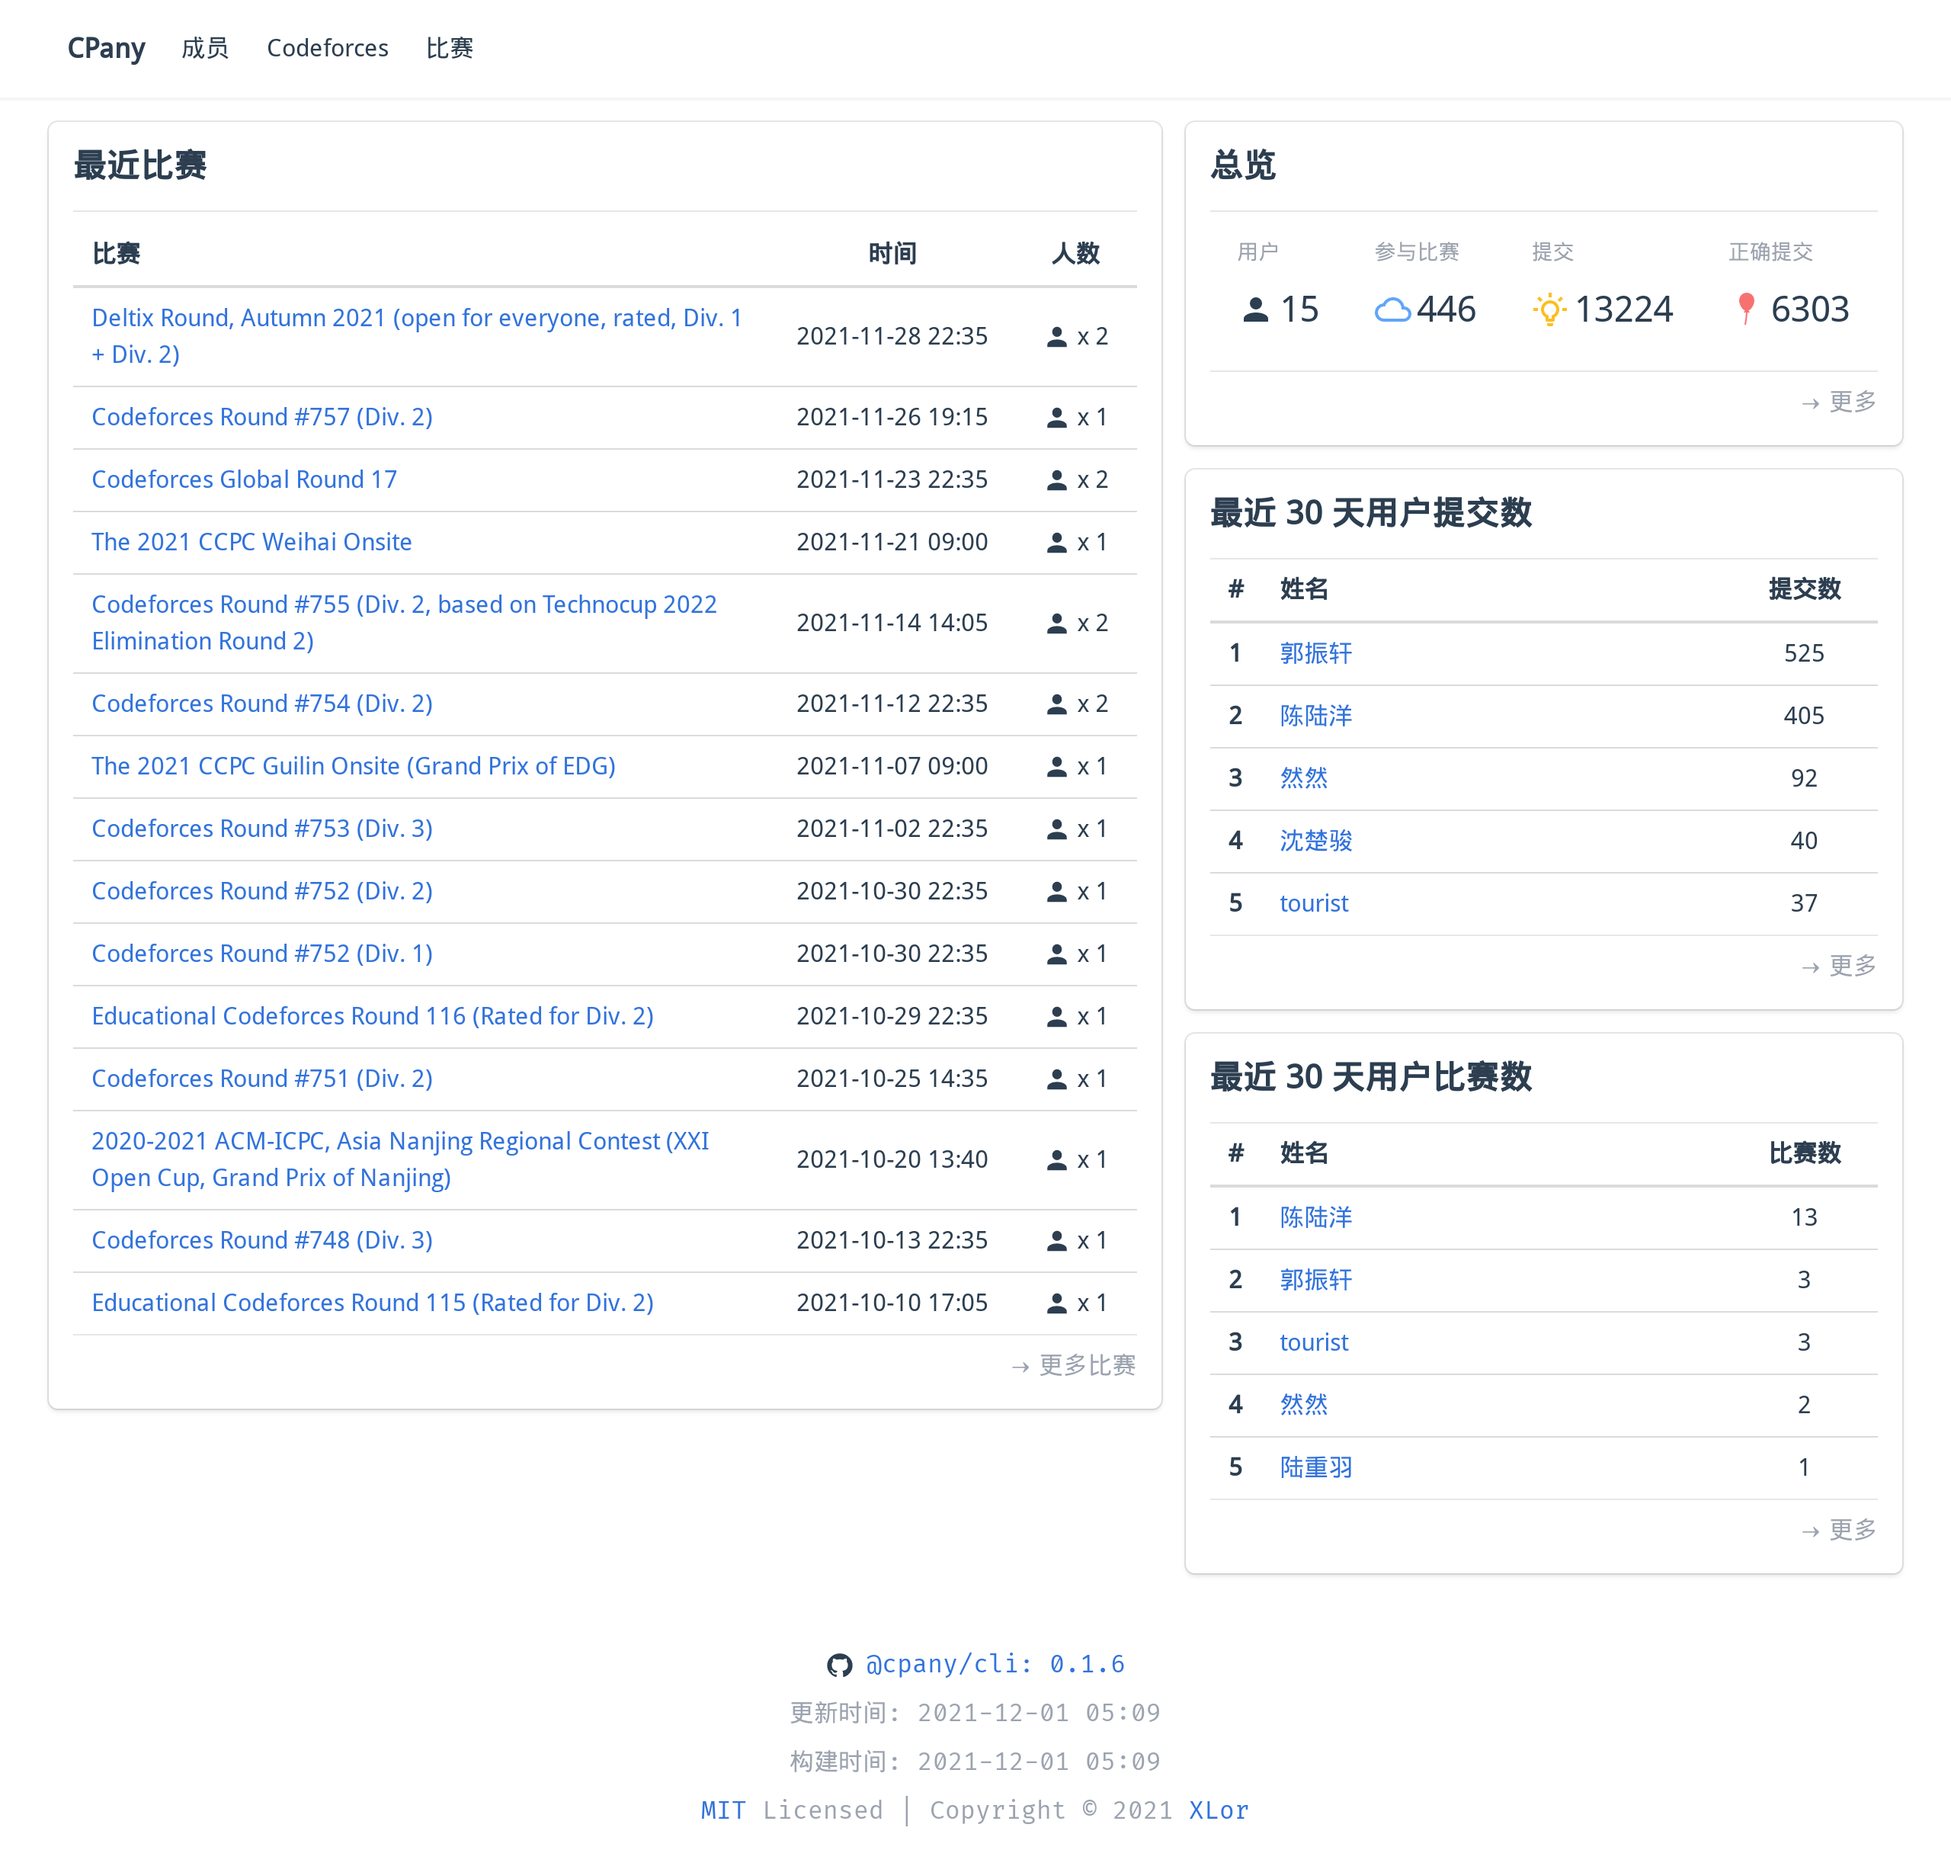
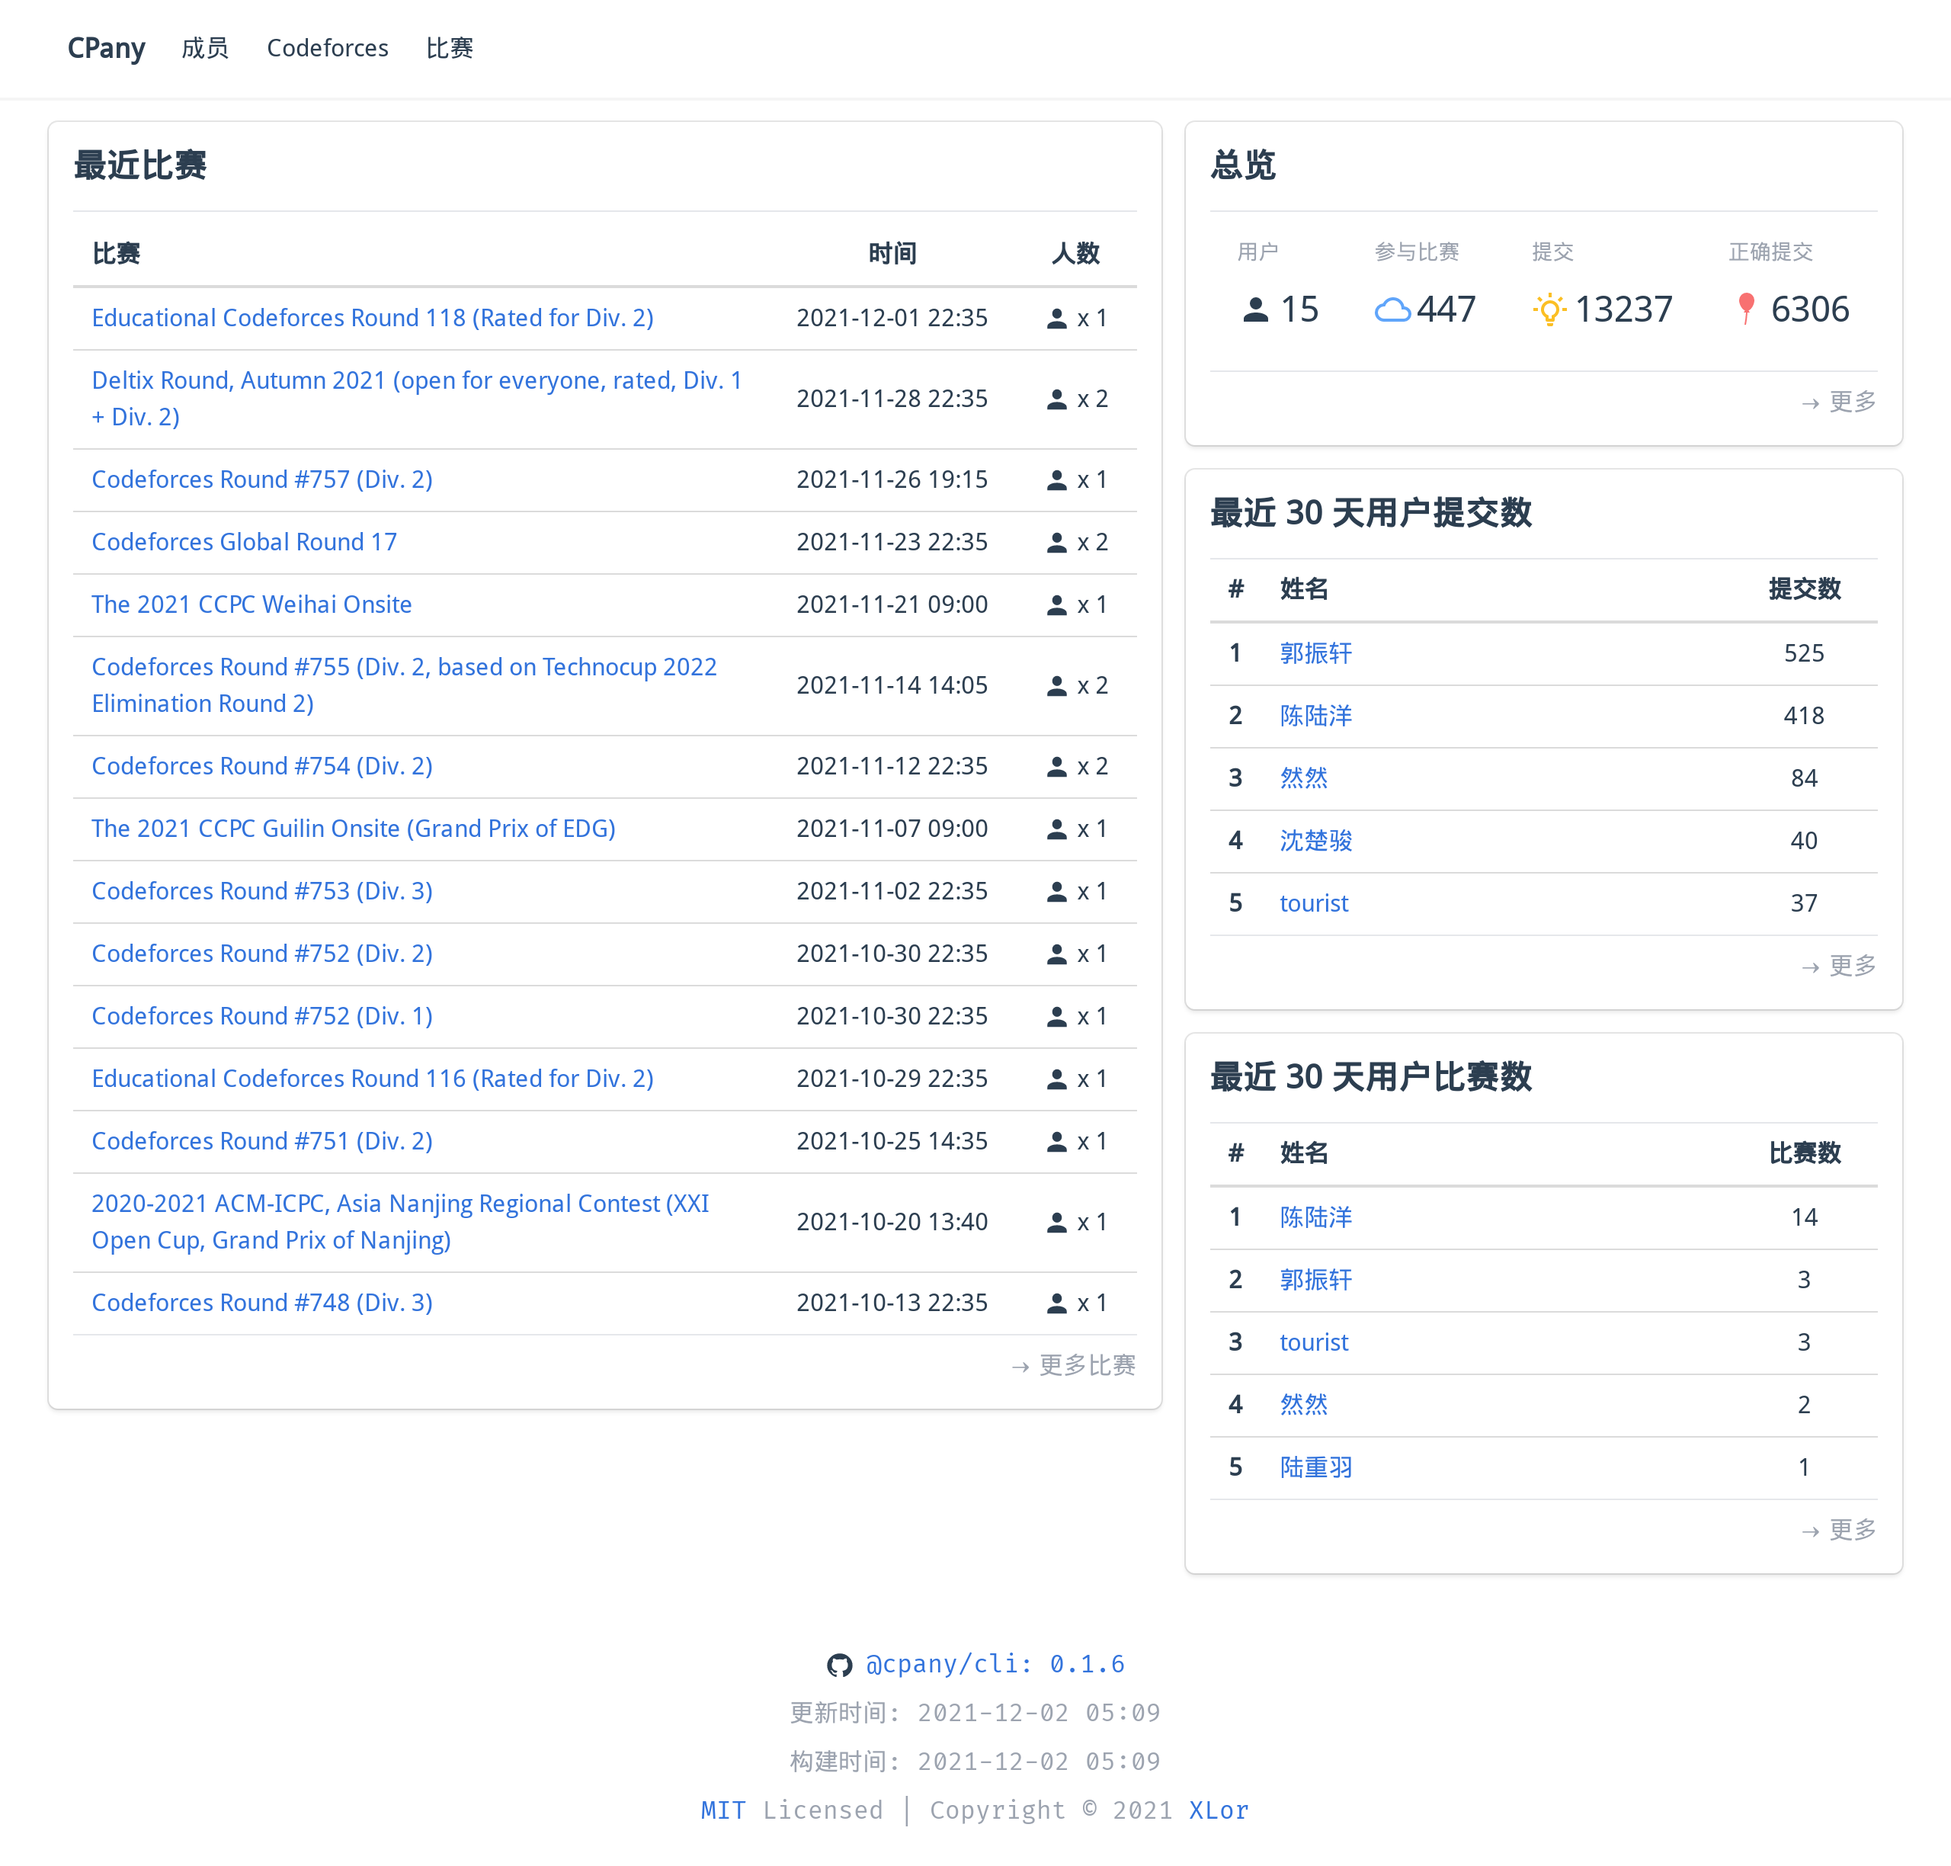
Fetch data on 2021-12-02 05:09

diff --git a/README.md b/README.md
@@ -3,7 +3,7 @@
 [![version](https://img.shields.io/npm/v/@cpany/cli?color=rgb%2850%2C203%2C86%29&label=CPany)](https://www.npmjs.com/package/@cpany/cli)
 
 <!-- START_SECTION: update_time -->
-更新时间：[2021-12-01 05:09](https://www.timeanddate.com/worldclock/fixedtime.html?msg=Fetch+data&iso=202112011638306555000050915&p1=237)
+更新时间：[2021-12-02 05:09](https://www.timeanddate.com/worldclock/fixedtime.html?msg=Fetch+data&iso=202112021638392962000050922&p1=237)
 <!-- END_SECTION: update_time -->
 
 ![members](./screenshot.png)
